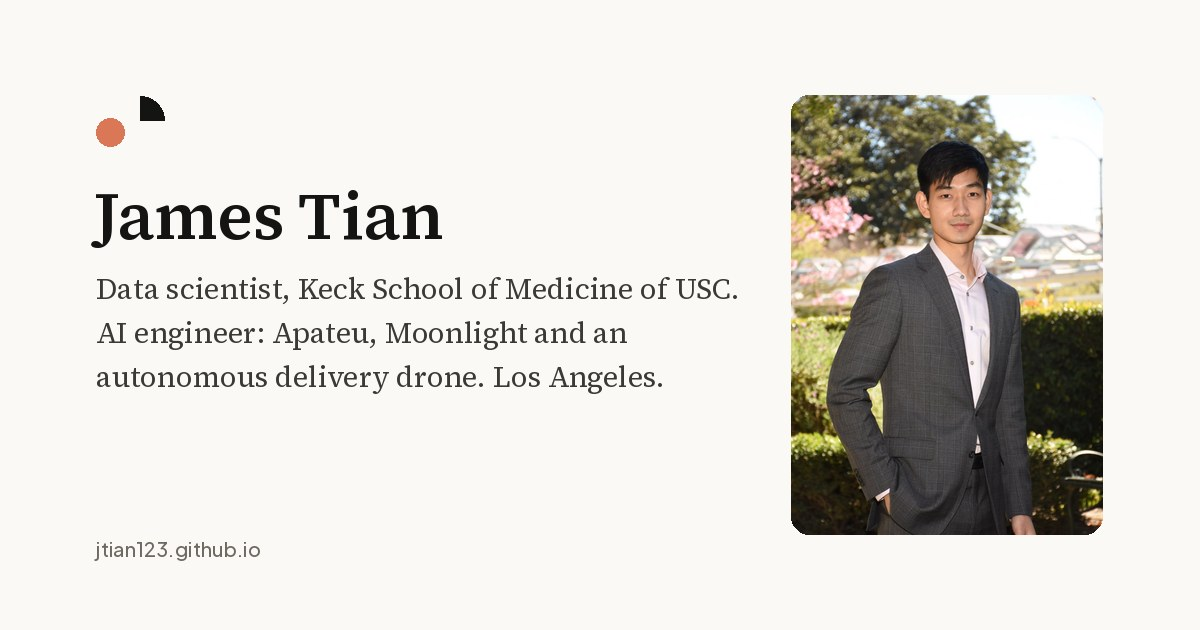
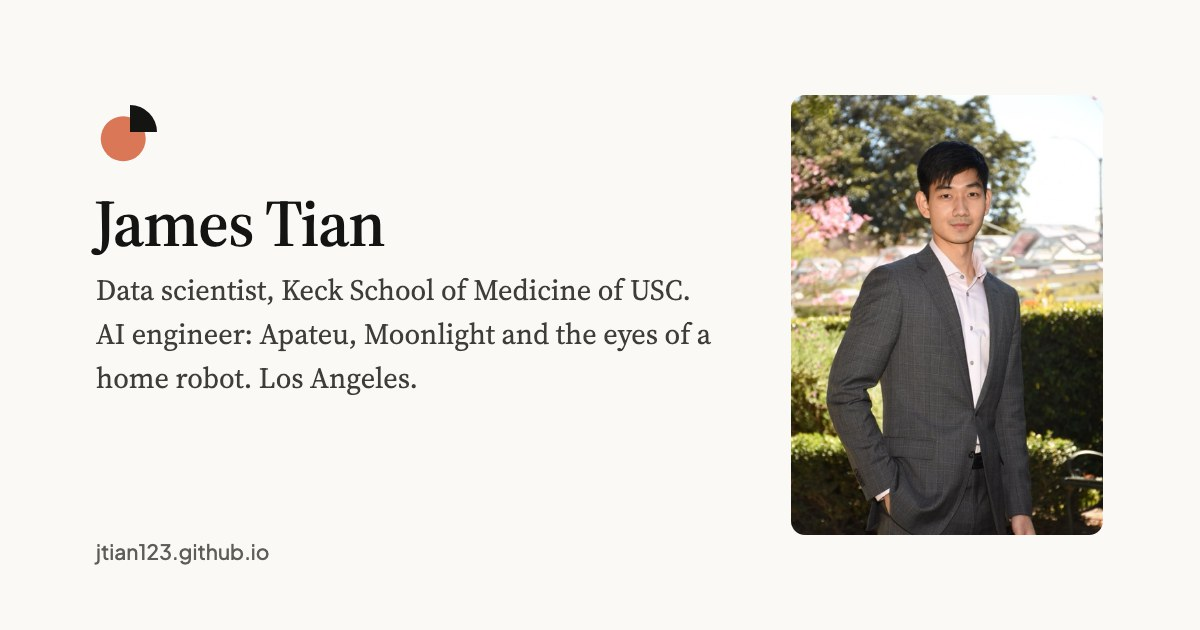
Shorter, plainer copy; add the home-robot vision work; the drone becomes a fun side project

diff --git a/index.html b/index.html
@@ -4,12 +4,12 @@
   <meta charset="utf-8">
   <meta name="viewport" content="width=device-width, initial-scale=1">
   <title>James Tian</title>
-  <meta name="description" content="James Tian is a data scientist at the Keck School of Medicine of USC and an AI engineer. He was the founding engineer of Apateu, built Moonlight for parents of children with autism, and is building the autonomy software for a delivery drone.">
+  <meta name="description" content="James Tian is a data scientist at the Keck School of Medicine of USC and an AI engineer. He was the founding engineer of Apateu, built Moonlight for parents of children with autism, and is building the vision system for a home robot.">
   <meta name="author" content="James Tian">
   <meta name="theme-color" content="#faf9f5">
   <meta property="og:type" content="website">
   <meta property="og:title" content="James Tian">
-  <meta property="og:description" content="Data scientist at the Keck School of Medicine of USC. AI engineer: Apateu, Moonlight and an autonomous delivery drone. Los Angeles.">
+  <meta property="og:description" content="Data scientist at the Keck School of Medicine of USC. AI engineer: Apateu, Moonlight and the eyes of a home robot. Los Angeles.">
   <meta property="og:url" content="https://jtian123.github.io/">
   <meta property="og:image" content="https://jtian123.github.io/assets/og.jpg">
   <meta property="og:image:width" content="1200">
@@ -47,8 +47,8 @@
     <section class="intro" aria-label="About">
       <div>
         <h1 class="sr-only">About</h1>
-        <p>I live in Los Angeles. I’m a data scientist at the Keck School of Medicine of USC, where I work on NIH-funded studies of the brain, genes and the immune system. I also build AI products: I was the founding engineer of <a href="https://www.app.westapt.com/">Apateu</a>, a student-housing marketplace and AI search engine, and I built <a href="#moonlight">Moonlight</a>, an iPhone app for parents of children with autism. I’m also building the autonomy software for an <a href="#drone">autonomous delivery drone</a>: a learned pilot that flies around trees, poles and buildings. I grew up in China and studied statistics at Southeast University (东南大学) in Nanjing, then mathematics at Utrecht University and analytics at USC.</p>
-        <p>Most of my work is checking whether a result, a model or a machine is right enough to act on, and building the pipeline that makes it so.</p>
+        <p>I live in Los Angeles. I’m a data scientist at the Keck School of Medicine of USC, where I work on NIH-funded studies of the brain, genes and the immune system. I also build AI products. I was the founding engineer of <a href="https://www.app.westapt.com/">Apateu</a>, a student-housing app with an AI search engine, and I built <a href="#moonlight">Moonlight</a>, an iPhone app for parents of children with autism. Now I’m teaching a small camera to understand what people are doing, the first step toward a <a href="#vision">home robot</a>. For fun, I’m also writing the software for a <a href="#drone">delivery drone</a>.</p>
+        <p>I grew up in China and studied statistics at Southeast University (东南大学) in Nanjing, then mathematics at Utrecht University and analytics at USC.</p>
       </div>
       <img class="portrait" src="assets/james-640.jpg" width="457" height="640" alt="James Tian" fetchpriority="high">
     </section>
@@ -57,23 +57,21 @@
 
     <section class="group" aria-labelledby="g-stats">
       <h3 id="g-stats">Statistics and data science</h3>
-      <p class="lead">I was a statistician before I was an engineer, and it is still how I think about everything below: what would it take to convince me this result is real?</p>
+      <p class="lead">I was a statistician before I was an engineer. I still start every project the same way: what would convince me this result is real?</p>
 
       <details class="item" id="usc">
         <summary>
           <img class="thumb" src="assets/usc.jpg" width="1040" height="1040" alt="Keck Hospital of USC: the white steel canopy over the main entrance, with palms and a fountain" loading="lazy">
-          <span class="txt"><strong class="t">Medical research at USC</strong><span class="role">Data scientist · Keck School of Medicine of USC, Division of Biostatistics · 2023 to present</span><span class="blurb">The computational analyst on five NIH-funded studies: air pollution and brain aging, childhood adversity and DNA methylation, immune signatures after trauma, a deep-learning model of adolescent brain structure, and hearing loss in children on chemotherapy.</span></span>
+          <span class="txt"><strong class="t">Medical research at USC</strong><span class="role">Data scientist · Keck School of Medicine of USC, Division of Biostatistics · 2023 to present</span><span class="blurb">I analyze the data for five NIH-funded studies: air pollution and the aging brain, childhood adversity and DNA, the immune system after trauma, hormones and the teenage brain, and hearing loss in children on chemotherapy.</span></span>
           <span class="chev"><span class="o">More</span><span class="c">Less</span><svg viewBox="0 0 12 12" aria-hidden="true"><path d="M2 4l4 4 4-4" fill="none" stroke="currentColor" stroke-width="1.5"/></svg></span>
         </summary>
         <div class="more">
           <div class="prose">
-            <p>The questions are big and human. Does traffic pollution age the brain? What does childhood adversity write into DNA? Can a scan predict a hormone? The data is enormous and noisy, so most of my job is building the pipeline that makes an answer trustworthy before anyone reads it.</p>
-            <p>My main project follows air pollution into the brain. Working with about 1,600 MRI scans from older women in the Women’s Health Initiative Memory Study, I created and maintain <a href="https://github.com/USCbiostats/MRIreduce">MRIreduce</a>, an open-source R package on CRAN that turns raw brain images into structured features without a predefined atlas, building on my advisor’s Partition method. I then used high-dimensional causal mediation to ask which brain regions carry pollution’s effect on memory. I’m first author on the manuscript, now under revision.</p>
+            <p>My main project asks whether traffic pollution ages the brain. For it I created <a href="https://github.com/USCbiostats/MRIreduce">MRIreduce</a>, an open-source R package on CRAN that turns brain scans into data a model can use, and then traced which brain regions carry pollution’s effect on memory in about 1,600 older women. I’m first author on the paper, now under revision.</p>
             <ul>
-              <li>Harmonized eleven cohorts of blood samples from trauma and sepsis patients across three measurement platforms and found a 36-gene neutrophil signature that reproduced with 97.2% directional agreement (AAST 2026 abstract).</li>
-              <li>Built a deep-learning pipeline with explainability built in that predicts adolescent hormone levels from brain structure in about 9,100 ABCD Study participants (OHBM 2026 abstract).</li>
-              <li>Ran an epigenome-wide study of childhood maltreatment and DNA methylation: 453 young people, four timepoints, about 768,000 sites, kinship-adjusted mixed models on USC’s HPC cluster.</li>
-              <li>Built and deployed <a href="https://cihl.shinyapps.io/pedshear/">PedsHEAR</a>, a clinician-facing tool that estimates hearing-loss risk for children on cisplatin chemotherapy, around my advisor’s validated model.</li>
+              <li>Found a 36-gene immune signature after trauma that held up across eleven patient cohorts and three lab platforms (AAST 2026 abstract).</li>
+              <li>Built a deep-learning model that predicts hormone levels from brain scans of about 9,100 teenagers, and shows which brain regions drive each prediction (OHBM 2026 abstract).</li>
+              <li>Built <a href="https://cihl.shinyapps.io/pedshear/">PedsHEAR</a>, a web tool for doctors that estimates hearing-loss risk for children on cisplatin chemotherapy, around my advisor’s model.</li>
             </ul>
             <figure class="figure">
               <a href="https://github.com/USCbiostats/MRIreduce"><img src="assets/mrireduce-card.jpg" width="1200" height="600" alt="GitHub repository card for USCbiostats/MRIreduce" loading="lazy"></a>
@@ -87,12 +85,12 @@
 
     <section class="group" aria-labelledby="g-ai">
       <h3 id="g-ai">AI engineering: building apps people use</h3>
-      <p class="lead">I build apps on language models. In practice most of the work is deciding what the model is allowed to say and what the code has to verify.</p>
+      <p class="lead">I build apps on top of language models. Most of the work is deciding what the model may say and what the code has to check.</p>
 
       <details class="item" id="apateu">
         <summary>
           <img class="thumb" src="assets/apateu.jpg" width="1040" height="1040" alt="Two full screens from the Apateu iPhone app: the sublease listings feed and the AI housing agent landing" loading="lazy">
-          <span class="txt"><strong class="t">Apateu</strong><span class="role">Founding engineer · with Danbi Jang · 2025 to September 2026</span><span class="blurb">A student-housing app. Students sublease to each other with a lease signed in the app, and an AI agent answers “a 2-bed near USC under $1,400 for the summer” with specific buildings and their current listed prices.</span></span>
+          <span class="txt"><strong class="t">Apateu</strong><span class="role">Founding engineer · with Danbi Jang · 2025 to September 2026</span><span class="blurb">A student-housing app. Students sublease to each other with a lease signed in the app, and an AI agent answers “a 2-bed near USC under $1,400” with real buildings and today’s prices.</span></span>
           <span class="chev"><span class="o">More</span><span class="c">Less</span><svg viewBox="0 0 12 12" aria-hidden="true"><path d="M2 4l4 4 4-4" fill="none" stroke="currentColor" stroke-width="1.5"/></svg></span>
         </summary>
         <div class="more">
@@ -105,12 +103,11 @@
             <figcaption>Screens from the iPhone app, July 2026: the sublease feed, the housing agent and the lease builder. Click any screen to zoom in.</figcaption>
           </figure>
           <div class="prose">
-            <p>It started with a problem Danbi and I both had: we tried to sublease our own apartments and it was miserable. A group chat, no listing, no contract, no way to know if the stranger on the other end was real. So we built the app we wanted and launched it on the App Store in September 2025.</p>
-            <p>Under the search engine is an index I built: 353 operator-specific adapters that read prices straight from property managers’ own websites across 3,700+ buildings in five metros, converted to a price per bed, because that is how students rent. The agent is a tool-use loop on Claude’s API with 34 tools, and a grounding layer keeps an amenity only when the building’s own page states it. I owned the whole stack, SwiftUI, Node and MongoDB, and wrote most of the adapters by directing AI coding agents the way a lead runs a small team.</p>
+            <p>Danbi and I both tried to sublease our apartments and hated it: a group chat, no contract, no way to know if the other person was real. So we built the app we wanted and launched it on the App Store in September 2025.</p>
+            <p>I built the whole stack (SwiftUI, Node, MongoDB) and the AI agent on Claude’s API. Under the search sits an index I built that reads prices straight from property managers’ own websites: 3,700+ buildings in five metros.</p>
             <ul>
-              <li>1,000+ registered students, doubled in six months.</li>
-              <li>Ten campus Instagram accounts run by AI agents we built, about 6,000 followers, nothing spent on ads.</li>
-              <li>A two-person team with no employees. Numbers as of August 2026.</li>
+              <li>1,000+ registered students by August 2026, doubled in six months.</li>
+              <li>Ten campus Instagram accounts run by AI agents we built: about 6,000 followers, nothing spent on ads.</li>
             </ul>
             <p class="links"><a href="https://www.app.westapt.com/">Apateu on the web</a><a href="https://apps.apple.com/us/app/apateu/id6745530032">Apateu on the App Store</a></p>
           </div>
@@ -120,36 +117,60 @@
       <details class="item" id="moonlight">
         <summary>
           <img class="thumb" src="assets/moonlight.jpg" width="1040" height="1040" alt="Two real screens from the Moonlight iPhone app: a day’s Timeline and a week of sleep in Insights" loading="lazy">
-          <span class="txt"><strong class="t">Moonlight</strong><span class="role">AI engineer / full-stack software engineer · San Diego · 2026</span><span class="blurb">An iPhone app for parents of children with autism. A parent records an observation with a photo or a voice note, and the app turns weeks of records into charts a doctor can read: sleep, bowel health, therapy sessions and food, and which things tend to occur together.</span></span>
+          <span class="txt"><strong class="t">Moonlight</strong><span class="role">AI engineer / full-stack software engineer · San Diego · 2026</span><span class="blurb">An iPhone app for parents of children with autism. Parents log the day with a photo or a voice note, and the app turns weeks of notes into charts a doctor can read.</span></span>
           <span class="chev"><span class="o">More</span><span class="c">Less</span><svg viewBox="0 0 12 12" aria-hidden="true"><path d="M2 4l4 4 4-4" fill="none" stroke="currentColor" stroke-width="1.5"/></svg></span>
         </summary>
         <div class="more">
           <figure class="bleed gallery-fig">
             <div class="gallery" data-gallery="Moonlight">
-              <a class="shot" href="assets/moonlight-1.jpg" data-caption="Timeline for one day. Under the teacher’s note, the AI line lists what it read from the photo and flags anything worth watching. Place names and the photo are blurred."><img src="assets/moonlight-1-sm.jpg" width="720" height="1561" alt="Moonlight Timeline for September 22: a teacher’s note with an AI summary, two bathroom records, and a night’s sleep" loading="lazy"><span class="zoom" aria-hidden="true"></span></a>
-              <a class="shot" href="assets/moonlight-2.jpg" data-caption="Insights for a week: bowel movements on the Bristol scale against the ideal 3–4 band, and intervention sessions with the day’s average rating."><img src="assets/moonlight-2-sm.jpg" width="720" height="1561" alt="Moonlight Insights for September 6 to 12: a Bristol stool type chart and an intervention sessions chart" loading="lazy"><span class="zoom" aria-hidden="true"></span></a>
-              <a class="shot" href="assets/moonlight-3.jpg" data-caption="Sleep for the same week: bedtime, sleep onset and waking each night, and hours asleep against an 8–10 hour goal."><img src="assets/moonlight-3-sm.jpg" width="720" height="1561" alt="Moonlight Insights sleep section: a sleep rhythm chart and hours asleep per day for September 6 to 12" loading="lazy"><span class="zoom" aria-hidden="true"></span></a>
+              <a class="shot" href="assets/moonlight-1.jpg" data-caption="One day on the Timeline, with the AI’s note under an entry. Place names and the photo are blurred."><img src="assets/moonlight-1-sm.jpg" width="720" height="1561" alt="Moonlight Timeline for one day, with an AI note under an entry" loading="lazy"><span class="zoom" aria-hidden="true"></span></a>
+              <a class="shot" href="assets/moonlight-2.jpg" data-caption="A week of Insights. Every chart is computed from the logged entries, never by the model."><img src="assets/moonlight-2-sm.jpg" width="720" height="1561" alt="Moonlight weekly Insights charts" loading="lazy"><span class="zoom" aria-hidden="true"></span></a>
+              <a class="shot" href="assets/moonlight-3.jpg" data-caption="Sleep across the same week."><img src="assets/moonlight-3-sm.jpg" width="720" height="1561" alt="Moonlight sleep charts for one week" loading="lazy"><span class="zoom" aria-hidden="true"></span></a>
             </div>
             <figcaption>Real screens from the app in use, September 2026, with place names and a photographed note blurred. Click any screen to zoom in.</figcaption>
           </figure>
           <div class="prose">
-            <p>Parents of a child who may not have the words to say how they feel keep track of a great deal, and are then asked to recall weeks of it at a short appointment. Moonlight is one place to record structured daily observations across built-in and custom categories, and it looks for patterns across them over weeks.</p>
-            <p>The rule I held to was that the language model may suggest a pattern, and must report the times it did not hold, but every number in a report comes from a database counter, never from the model. The app gives no medical advice: if the model drafts a line that reads like a treatment change, code replaces it with a fixed instruction to keep recording and consult a doctor. Names are redacted before every prompt, and the whole app works in Chinese and English.</p>
-            <p>Since launch the app has changed in weekly rounds driven by the family. The latest reworked Insights: any date range now reads as sections a clinician would recognize, with sleep, bowel health on the Bristol scale, intervention sessions and nutrition, every chart computed from the records, and the whole report exports to a PDF for the next appointment.</p>
-            <p>I built it end to end: requirements gathered from parents with no technical background, a proposal they approved, weekly check-ins, one storage design reversed when their security checklist made a server necessary, and version one in production in August 2026 after a four-week build. SwiftUI, Swift Charts, Node, MongoDB, OpenAI and AWS.</p>
+            <p>Parents of a child who can’t always say how they feel keep track of a lot, then get asked to remember weeks of it in a short appointment. Moonlight gives them one place to log the day, and it finds patterns across weeks.</p>
+            <p>One rule shaped the design: the language model may suggest a pattern, but every number in a report comes from the database, never from the model. The app gives no medical advice. If the model drafts something that sounds like advice, code swaps it for a note to ask a doctor.</p>
+            <p>I built it end to end, from requirements with the family to version one in production in August 2026, after a four-week build. Since then the family has driven a new round of changes almost every week. SwiftUI, Node, MongoDB, OpenAI and AWS.</p>
           </div>
         </div>
       </details>
     </section>
 
     <section class="group" aria-labelledby="g-hw">
-      <h3 id="g-hw">Electrical engineering: putting AI on hardware</h3>
-      <p class="lead">Everything above runs on a server or a phone. I want to learn what it takes for AI to work when it has motors, sensors and a battery, and a mistake has physical consequences.</p>
+      <h3 id="g-hw">Putting AI on hardware</h3>
+      <p class="lead">Everything above runs on a server or a phone. I want to learn what it takes for AI to work in the physical world, on a small computer with a camera.</p>
+
+      <details class="item" id="vision">
+        <summary>
+          <img class="thumb" src="assets/vision.jpg" width="1040" height="1040" alt="Bar chart: on a public action benchmark, the starting point scores 0.13, a large teacher model 0.26, and my small model 0.34" loading="lazy">
+          <span class="txt"><strong class="t">A home robot’s eyes</strong><span class="role">AI engineer · since September 2026 · early prototype</span><span class="blurb">The long-term goal is a home robot that helps families. First it needs eyes: a small camera computer that understands, second by second, what each person in the room is doing, while the video stays in the home.</span></span>
+          <span class="chev"><span class="o">More</span><span class="c">Less</span><svg viewBox="0 0 12 12" aria-hidden="true"><path d="M2 4l4 4 4-4" fill="none" stroke="currentColor" stroke-width="1.5"/></svg></span>
+        </summary>
+        <div class="more">
+          <div class="prose">
+            <p>It’s early, so I’ll keep the details short. This is how I’m building it:</p>
+            <ul>
+              <li><strong>Public video first.</strong> The model learns everyday actions (sitting, eating, reading, playing) from large public video datasets before it ever sees a home.</li>
+              <li><strong>People, not just pixels.</strong> The camera finds each person, works out their pose and follows them over time. Once a second it sums up each person, and a small transformer reads the last few seconds to decide what they are doing.</li>
+              <li><strong>A big teacher for a small student.</strong> A large vision-language model scores clips offline, and my small model learns from it and from human labels. On the benchmark, the student ended up beating its teacher.</li>
+              <li><strong>Built for a tiny computer.</strong> It’s designed for a Raspberry Pi 5 with an AI chip. The model I trained needs a few milliseconds of one processor core per person each second.</li>
+              <li><strong>Measured honestly.</strong> Each version is scored once, on clips it never trained on, and a model stays only if it beats a simpler one.</li>
+            </ul>
+            <figure class="figure" style="max-width:440px">
+              <img src="assets/vision.jpg" width="1040" height="1040" alt="Bar chart: on a public action benchmark, the starting point scores 0.13, a large teacher model 0.26, and my small model 0.34" loading="lazy">
+              <figcaption>The AVA benchmark, 31 everyday actions, scored once with the true person boxes given. With the camera’s own person detection the scores are 0.10, 0.19 and 0.27.</figcaption>
+            </figure>
+            <p>Right now the pipeline runs on my laptop; next it moves onto the Pi.</p>
+          </div>
+        </div>
+      </details>
 
       <details class="item" id="drone">
         <summary>
           <img class="thumb" src="assets/drone.jpg" width="1040" height="1040" alt="3D model of the X650 delivery drone flying among posts and a tree, with its camera’s depth grid tinted near to far and lidar returns scattered around it" loading="lazy">
-          <span class="txt"><strong class="t">An autonomous delivery drone</strong><span class="role">AI engineer · forward-deployed, for a client · summer 2026 to present</span><span class="blurb">A drone that flies a one-kilogram package from A to B and back around trees, poles and buildings, reading a lidar and a camera together. A learned pilot does the flying; fixed safety rules it cannot override have the last word. So far it flies only in simulation: the aircraft is not built yet.</span></span>
+          <span class="txt"><strong class="t">An autonomous delivery drone</strong><span class="role">A fun side project · since summer 2026</span><span class="blurb">Just for fun: software for a drone that carries a package from A to B around trees, poles and buildings. A pilot trained with reinforcement learning does the flying, and simple safety rules it can’t override have the last word. So far it flies only in simulation.</span></span>
           <span class="chev"><span class="o">More</span><span class="c">Less</span><svg viewBox="0 0 12 12" aria-hidden="true"><path d="M2 4l4 4 4-4" fill="none" stroke="currentColor" stroke-width="1.5"/></svg></span>
         </summary>
         <div class="more">
@@ -171,58 +192,13 @@
                 <p class="stage-toast" aria-hidden="true">Hold ⌘ or Ctrl to zoom</p>
               </div>
             </div>
-            <figcaption>The aircraft as we will build it, drawn to scale in metres from the parts list: Holybro X650 V2 with 15-inch props, Pixhawk 6C Mini, Raspberry Pi 5, a Unitree L2 lidar hanging dome-down under the nose, the Raspberry Pi AI Camera (IMX500) on a pitch gimbal at the tip of a nose boom, single-beam rangefinders pointing down and up, and a one-kilogram package. The lidar sees from straight down to 6° above the horizon, so the tree crown ahead is seen only by the camera. The course is shrunk to fit, and the sensor effects are an illustration, not recorded data.</figcaption>
+            <figcaption>The drone drawn to scale from its parts list, among posts and a tree, with the camera’s depth readings tinted near to far and the lidar’s returns around it. An illustration, not recorded data.</figcaption>
           </figure>
 
           <div class="prose">
-            <h4>The mission</h4>
-            <p>Fly a package from A to B around real obstacles, land at B, release it, and fly home the same way. That is the part a waypoint autopilot cannot do: it follows a line, and it cannot see a tree.</p>
-            <p>The design splits the work in three. ArduPilot on the Pixhawk is the vehicle: it keeps the aircraft stable, tracks the speed it is asked for, takes off, touches down and runs the failsafes. A learned pilot on the Raspberry Pi chooses the path and the speed, sending four commands ten times a second: forward, sideways and vertical speed, and turn rate. Between them sits a guardian, plain rules rather than anything learned, which the pilot cannot override. If the Pi crashes or goes quiet, the autopilot brakes, climbs and flies home.</p>
-
-            <h4>What it sees</h4>
-            <p>A camera tells you what things are and sees far in daylight; a lidar measures where they are, in any light. The pilot gets both. The lidar is a Unitree L2 hung upside down under the nose, so it sees from straight down to 6° above the horizon, all around, out to about 15 m on dark surfaces. Above that it is blind, which is why the camera sits on a boom in front of it, looking ahead and up.</p>
-            <p>The camera is the Raspberry Pi AI Camera, whose Sony IMX500 sensor runs a small neural network on the chip itself. The plan is for it to turn each image into distances with ZipDepth, an open depth model, which I converted and squeezed into 7.5 of the chip’s 8 MB; its speed on the real camera is the next measurement. The pilot reads a coarse 12 × 16 grid of those distances, which looks the same in simulation as on the aircraft. Raw pixels would not.</p>
-            <p>Speed follows what it can see. Like a careful human pilot, it flies only as fast as it can stop within the distance the lidar has confirmed clear: 6 m/s at most, slower near obstacles. Anything the sensors cannot see clearly counts as blocked, never as clear.</p>
-
-            <h4>How it learns</h4>
-            <p>Training runs in a simulator I built in PyTorch rather than in a game engine. The obstacle courses are simple solids, so every lidar ray, camera distance and collision can be computed exactly, for thousands of aircraft at once on one GPU: about 10,000 simulated steps a second, or 17 minutes of flight every second. The courses run from open fields through posts, trees and buildings to courtyards and dead-end alleys, with ceilings low enough that the pilot has to go around obstacles, not over them.</p>
-            <p>The pilot is one small network trained with PPO, a reinforcement-learning method, and it has to beat a hand-written pilot with the same sensors and the same guardian before it goes near an aircraft. It is not there yet. After two hours of training on a rented GPU it reached B on 225 of 240 courses it had never seen, with one collision, and it was faster wherever both arrived; the hand-written pilot still arrives more often, 235 of 240. The learned pilot also found two ways to crash that the guardian’s rules had missed and the hand-written pilot never tried. After a redesign, 9,840 simulated flights, including seven pilots written to misbehave, ended without a crash.</p>
-            <p>Before any of this, our first flight code carried a 2.7 km route on three simulated airframes, and a fault lab killed a motor, jammed the GPS and faked a dying battery to see what the autopilot would do.</p>
-
-            <h4>Later: choosing where to land</h4>
-            <p>For the first demo, B is an easy spot chosen in advance and the autopilot simply lands there. Later, the same sensors will choose a spot on unmarked ground that is firm, level, clear of people and big enough, or decline and fly back. For that we tested pretrained segmentation models instead of training our own and chose <a href="https://github.com/markus-42/SafeLand">SafeLand</a>, a SegFormer model trained on aerial images that labels 23 classes, including road, grass, water, obstacles and people. At 47 million parameters it is far too big for the camera chip, so it runs on the Pi’s processor, where it currently takes about 12 seconds per image. That was measured on an underpowered supply, so the landing work waits until it is measured again.</p>
-          </div>
-
-          <figure class="bleed-md compare-fig" data-compare>
-            <div class="compare-tabs" role="tablist" aria-label="Simulated scene">
-              <button type="button" role="tab" aria-selected="true" data-rgb="assets/safeland-obstacles-rgb.jpg" data-lab="assets/safeland-obstacles-labels.jpg" data-cap="Three boxes, 12 to 45 cm tall, on level paving. SafeLand marks them as obstacles (yellow) and the paving as road (purple).">Obstacles</button>
-              <button type="button" role="tab" aria-selected="false" data-rgb="assets/safeland-person-rgb.jpg" data-lab="assets/safeland-person-labels.jpg" data-cap="A person walks into the landing area. SafeLand marks them in magenta.">A person walks in</button>
-              <button type="button" role="tab" aria-selected="false" data-rgb="assets/safeland-step-rgb.jpg" data-lab="assets/safeland-step-labels.jpg" data-cap="A 25 cm step through the paving. SafeLand calls half of it water: it judges appearance, not height. This is why the lidar, not the camera, decides whether ground is level.">A 25 cm step</button>
-            </div>
-            <div class="compare" style="--pos:50%">
-              <img class="c-a" src="assets/safeland-obstacles-rgb.jpg" width="640" height="480" alt="Rendered camera frame from the simulator" loading="lazy">
-              <img class="c-b" src="assets/safeland-obstacles-labels.jpg" width="640" height="480" alt="The same frame with SafeLand’s labels blended over it" loading="lazy">
-              <span class="c-line" aria-hidden="true"><span class="c-knob"></span></span>
-              <span class="c-tag c-tag-a" aria-hidden="true">What the camera sees</span>
-              <span class="c-tag c-tag-b" aria-hidden="true">What SafeLand labels</span>
-              <input class="c-range" type="range" min="0" max="100" value="50" step="0.5" aria-label="Slide to compare the camera frame with SafeLand’s labels">
-              <button class="c-zoom" type="button" aria-label="Open both images full screen"><svg viewBox="0 0 16 16" aria-hidden="true"><path d="M9.5 2.5h4v4M6.5 13.5h-4v-4M13.5 2.5 9 7M2.5 13.5 7 9" fill="none" stroke="currentColor" stroke-width="1.5" stroke-linecap="round" stroke-linejoin="round"/></svg></button>
-            </div>
-            <ul class="compare-legend" aria-label="SafeLand label colours">
-              <li><i style="--c:#a667a9"></i>Road</li>
-              <li><i style="--c:#e3e25e"></i>Obstacle</li>
-              <li><i style="--c:#e670e8"></i>Person</li>
-              <li><i style="--c:#6667e8"></i>Water</li>
-            </ul>
-            <figcaption><span class="c-cap">Three boxes, 12 to 45 cm tall, on level paving. SafeLand marks them as obstacles (yellow) and the paving as road (purple).</span> Frames rendered in NVIDIA Isaac Sim and labelled by the released SafeLand model, September 22, 2026. Drag the handle to compare.</figcaption>
-          </figure>
-
-          <div class="prose">
-            <ul>
-              <li>Holybro X650 V2 airframe with 15-inch propellers; a one-kilogram package released by a servo latch, only after a supervised check on the ground.</li>
-              <li>One Unitree L2 lidar rather than two Livox Mid-360S: hung upside down it also sees the ground straight below, and it costs $419 instead of $1,893.</li>
-              <li>The Pi and the AI Camera run on the bench; the airframe and the lidar are not bought or built yet, and nothing has flown.</li>
-            </ul>
+            <p>I wrote a simulator in PyTorch that flies 2,000 virtual drones at once on one GPU, and trained the pilot in it with PPO, a reinforcement-learning method. After two hours of training it reached the goal on 225 of 240 courses it had never seen, with one crash. A hand-written pilot still does a bit better (235), so mine has more to learn.</p>
+            <p>The safety rules sit between the pilot and the drone: never fly faster than you can stop, and treat anything the sensors can’t see as blocked. When the pilot found two ways to crash that the rules had missed, I fixed the rules and tested them on 9,840 simulated flights without a crash. The one crash in the latest run is next on my list.</p>
+            <p>Nothing is built or flown yet. Only the Raspberry Pi and the camera exist so far; the rest is still a parts list.</p>
           </div>
         </div>
       </details>
@@ -245,7 +221,7 @@
     </ul>
 
     <footer>
-      <p>Photo of Keck Hospital of USC by Patrick Davison, via <a href="https://en.wikipedia.org/wiki/File:USCUH.jpg">Wikipedia</a>, <a href="https://creativecommons.org/licenses/by-sa/3.0">CC BY-SA 3.0</a>, cropped. Moonlight screens are real, with place names and a photo blurred. The drone is a to-scale 3D model built from the project’s parts list, not a photograph. Simulator frames are labelled by <a href="https://github.com/markus-42/SafeLand">SafeLand</a> (CC BY-NC-SA 4.0).</p>
+      <p>Photo of Keck Hospital of USC by Patrick Davison, via <a href="https://en.wikipedia.org/wiki/File:USCUH.jpg">Wikipedia</a>, <a href="https://creativecommons.org/licenses/by-sa/3.0">CC BY-SA 3.0</a>, cropped. Moonlight screens are real, with place names and a photo blurred. The benchmark chart shows measured results. The drone is a to-scale 3D model built from its parts list, not a photograph.</p>
       <p>© 2026 James Tian</p>
     </footer>
   </main>
